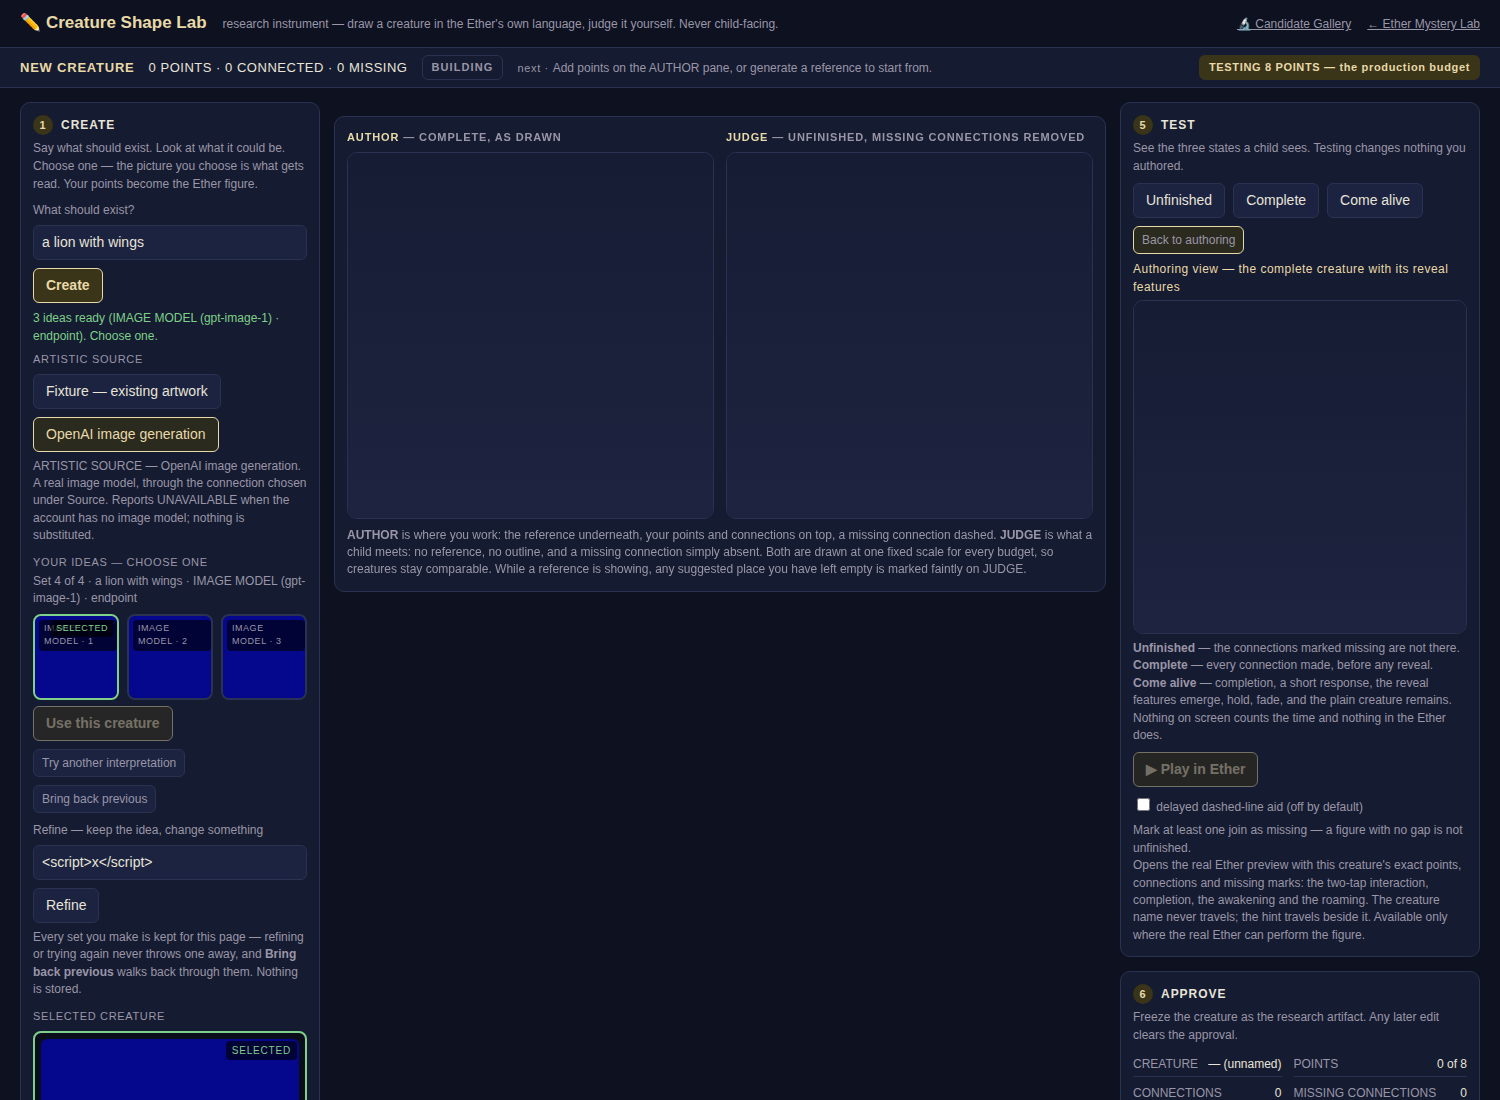
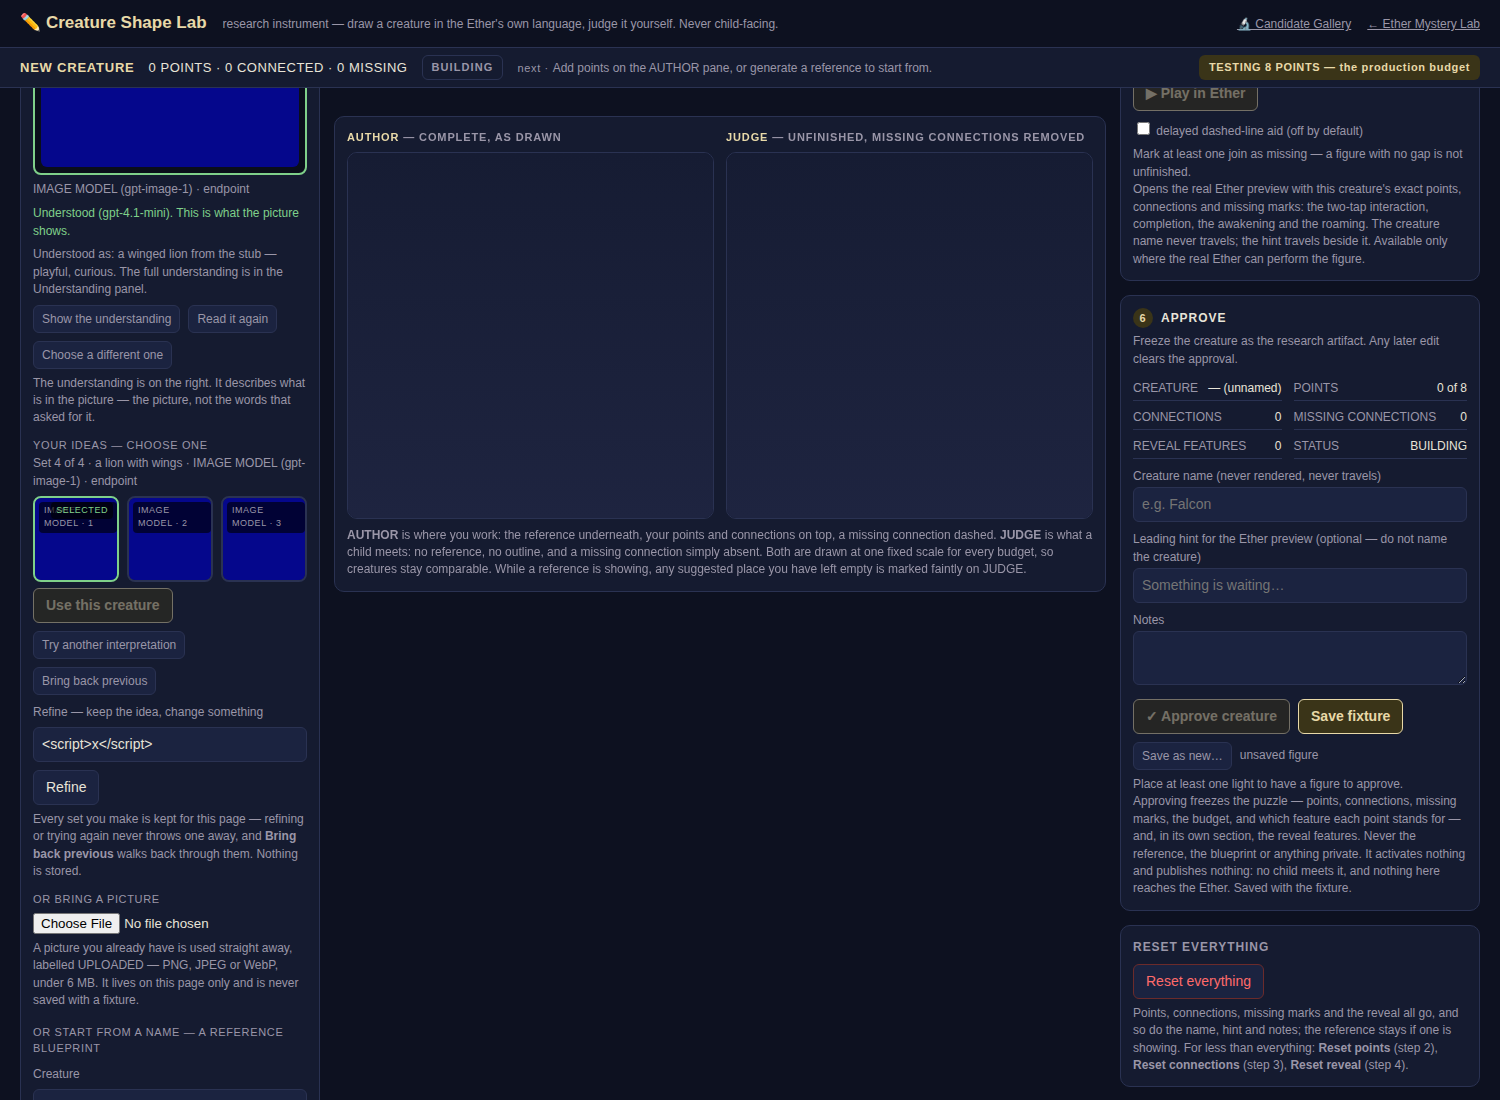
Shape Lab: a read is never below the fold — the top line follows it, with a ticker
Reported by the product owner on a narrow screen: the top line said
"Reading it…" for ever while the result sat under the gallery. The
understanding status is now written on the top line as well, counts the
seconds while the model reads, the selected picture stands above the
gallery with a one-line summary, and a button scrolls to the panel.

Claude-Session: https://claude.ai/code/session_01NR2MNb1W6fzYqou3TAkQQV

Changed region(s): [[0.0, 0.0618, 0.2147, 1.0], [0.736, 0.5873, 0.9813, 1.0], [0.736, 0.0618, 0.9813, 0.5564]]

diff --git a/tools/ether-mystery-lab/labImagine.js b/tools/ether-mystery-lab/labImagine.js
@@ -564,12 +564,14 @@
     }
     trace.request = mode === 'fixture' ? 'none — fixture mode answers with a placeholder that says no model looked' : 'sent through LabConnection (' + mode + '): the fixed contract, the creative prompt, and the picture (' + im.mime + ', ' + trace.imageBytes + ' bytes) — nothing else';
     state.busy = 'understand'; emit();
-    understandStatus(mode === 'fixture' ? 'Fixture: answering with a placeholder — no model looks at the picture…' : 'Reading the picture (' + mode + ')…');
+    var reading = mode === 'fixture' ? 'Fixture: answering with a placeholder — no model looks at the picture…' : 'Reading the picture (' + mode + ') — this takes a few seconds…';
+    understandStatus(reading);
+    if (mode !== 'fixture') tickStartFor(reading);
     return C.understand({
       messages: m.messages, image: { mime: im.mime, b64: im.b64 },
       fixture: function () { return fixtureAnalysis(g.prompt, im.title); }
     }).then(function (r) {
-      state.busy = null;
+      state.busy = null; tickStop();
       if (!r || !r.ok) {
         var reason = (r && r.reason) || 'unavailable';
         trace.answer = { ok: false, reason: reason }; trace.outcome = 'failed';
@@ -592,7 +594,7 @@
       emit();
       return { ok: true, source: r.source };
     }).catch(function () {
-      state.busy = null; trace.answer = { ok: false, reason: 'error' }; trace.outcome = 'failed';
+      state.busy = null; tickStop(); trace.answer = { ok: false, reason: 'error' }; trace.outcome = 'failed';
       understandStatus('Reading the picture failed (' + mode + '). ' + kept, 'warn'); emit();
       return { ok: false, reason: 'error' };
     });
@@ -607,7 +609,27 @@
   function el(sel) { return doc && doc.querySelector(sel); }
   function esc(s) { return String(s).replace(/[&<>"]/g, function (c) { return { '&': '&amp;', '<': '&lt;', '>': '&gt;', '"': '&quot;' }[c]; }); }
   function status(msg, kind) { var n = el('[data-imagine-status]'); if (n) { n.textContent = msg || ''; n.className = 'say imagine-status' + (kind ? ' ' + kind : ''); } }
-  function understandStatus(msg, kind) { var n = el('[data-imagine-understand-status]'); if (n) { n.textContent = msg || ''; n.className = 'say imagine-status' + (kind ? ' ' + kind : ''); } }
+  // The read's status is written in BOTH places — under the selected
+  // picture and on the top line under the prompt — because on a narrow
+  // screen the selected block and the Understanding panel sit below the
+  // fold, and a top line that still said "Reading it…" after the read had
+  // finished looked like a hang (reported by the product owner).
+  function understandStatus(msg, kind) {
+    var n = el('[data-imagine-understand-status]'); if (n) { n.textContent = msg || ''; n.className = 'say imagine-status' + (kind ? ' ' + kind : ''); }
+    status(msg, kind);
+  }
+  // While a read is in flight the line counts the seconds, so a slow model
+  // (a large picture at high detail takes ten seconds or so) reads as
+  // working rather than stuck.
+  var ticker = null, tickStart = 0, tickBase = '';
+  function tickStartFor(base) {
+    tickStop(); tickStart = Date.now(); tickBase = base;
+    ticker = setInterval(function () {
+      if (state.busy !== 'understand') { tickStop(); return; }
+      understandStatus(tickBase + ' ' + Math.round((Date.now() - tickStart) / 1000) + 's');
+    }, 1000);
+  }
+  function tickStop() { if (ticker) { clearInterval(ticker); ticker = null; } }
 
   function pageState() {
     if (state.busy === 'imagine') return 'creating';
@@ -655,6 +677,13 @@
     var img = doc.createElement('img'); img.alt = 'Selected creature — ' + (im.title ? im.title + ' — ' : '') + im.label; img.src = im.dataUrl;
     box.appendChild(img);
     var l = el('[data-imagine-selected-label]'); if (l) l.textContent = (im.title ? im.title + ' · ' : '') + im.label + (im.credit ? ' · ' + im.credit : '');
+    var sm = el('[data-imagine-summary]');
+    if (sm) {
+      var a = state.analysis;
+      sm.textContent = !a ? '' : (a.source === 'fixture' ? 'Placeholder in place (no model looked). ' : 'Understood as: ' + a.subject + ' — ' + a.character.join(', ') + '. ') + 'The full understanding is in the Understanding panel.';
+      sm.hidden = !a;
+    }
+    var sh = el('[data-imagine-show]'); if (sh) sh.disabled = !state.analysis;
   }
 
   function chips(list) { return (list || []).map(function (w) { return '<span class="an-chip">' + esc(w) + '</span>'; }).join(' '); }
@@ -755,6 +784,7 @@
     var useBtn = el('[data-imagine-use]'); if (useBtn) useBtn.addEventListener('click', function () { use(); });
     var ub = el('[data-imagine-understand]'); if (ub) ub.addEventListener('click', function () { understand(); });
     var un = el('[data-imagine-unselect]'); if (un) un.addEventListener('click', function () { unselect(); status('Choose another picture, or create more.'); });
+    var sh = el('[data-imagine-show]'); if (sh) sh.addEventListener('click', function () { var pn = el('[data-imagine-panel]'); if (pn && pn.scrollIntoView) pn.scrollIntoView({ block: 'start', behavior: 'smooth' }); });
     var file = el('[data-imagine-file]'); if (file) file.addEventListener('change', function () { var f = file.files && file.files[0]; if (f) bringImage(f); file.value = ''; });
     doc.querySelectorAll('[data-imagine-provider-pick]').forEach(function (bb) { bb.addEventListener('click', function () { setProvider(bb.getAttribute('data-imagine-provider-pick')); }); });
     var cp = el('[data-imagine-copy]');

diff --git a/tools/ether-mystery-lab/preview.html b/tools/ether-mystery-lab/preview.html
@@ -115,39 +115,39 @@
 
 <!-- The runtime, in its own dependency order (the sandbox's order,
      which is index.html's order). -->
-<script src="../../vihuplanet/artDirection/illustrationRules.js?lab=58c1d46792"></script>
-<script src="../../vihuplanet/runtime/core/namespace.js?lab=58c1d46792"></script>
-<script src="../../vihuplanet/runtime/core/rng.js?lab=58c1d46792"></script>
-<script src="../../vihuplanet/runtime/core/signal.js?lab=58c1d46792"></script>
-<script src="../../vihuplanet/runtime/core/clock.js?lab=58c1d46792"></script>
-<script src="../../vihuplanet/runtime/core/camera.js?lab=58c1d46792"></script>
-<script src="../../vihuplanet/runtime/core/traveller.js?lab=58c1d46792"></script>
-<script src="../../vihuplanet/runtime/stories/storyEntity.js?lab=58c1d46792"></script>
-<script src="../../vihuplanet/runtime/stories/storyManager.js?lab=58c1d46792"></script>
-<script src="../../vihuplanet/runtime/stories/storyLayer.js?lab=58c1d46792"></script>
-<script src="../../vihuplanet/runtime/stories/storySpirit.js?lab=58c1d46792"></script>
-<script src="../../vihuplanet/runtime/physics/spatialGrid.js?lab=58c1d46792"></script>
-<script src="../../vihuplanet/runtime/physics/physics.js?lab=58c1d46792"></script>
-<script src="../../vihuplanet/runtime/ether/ether.js?lab=58c1d46792"></script>
-<script src="../../vihuplanet/runtime/ether/currents.js?lab=58c1d46792"></script>
-<script src="../../vihuplanet/runtime/ether/aurora.js?lab=58c1d46792"></script>
-<script src="../../vihuplanet/runtime/ether/etherRenderer.js?lab=58c1d46792"></script>
-<script src="../../vihuplanet/runtime/ambient/ambientSystem.js?lab=58c1d46792"></script>
-<script src="../../vihuplanet/runtime/focus/focusSystem.js?lab=58c1d46792"></script>
-<script src="../../vihuplanet/runtime/birth/storyBirth.js?lab=58c1d46792"></script>
-<script src="../../vihuplanet/runtime/worlds/worldEngine.js?lab=58c1d46792"></script>
-<script src="../../vihuplanet/runtime/core/universe.js?lab=58c1d46792"></script>
+<script src="../../vihuplanet/artDirection/illustrationRules.js?lab=8809f30565"></script>
+<script src="../../vihuplanet/runtime/core/namespace.js?lab=8809f30565"></script>
+<script src="../../vihuplanet/runtime/core/rng.js?lab=8809f30565"></script>
+<script src="../../vihuplanet/runtime/core/signal.js?lab=8809f30565"></script>
+<script src="../../vihuplanet/runtime/core/clock.js?lab=8809f30565"></script>
+<script src="../../vihuplanet/runtime/core/camera.js?lab=8809f30565"></script>
+<script src="../../vihuplanet/runtime/core/traveller.js?lab=8809f30565"></script>
+<script src="../../vihuplanet/runtime/stories/storyEntity.js?lab=8809f30565"></script>
+<script src="../../vihuplanet/runtime/stories/storyManager.js?lab=8809f30565"></script>
+<script src="../../vihuplanet/runtime/stories/storyLayer.js?lab=8809f30565"></script>
+<script src="../../vihuplanet/runtime/stories/storySpirit.js?lab=8809f30565"></script>
+<script src="../../vihuplanet/runtime/physics/spatialGrid.js?lab=8809f30565"></script>
+<script src="../../vihuplanet/runtime/physics/physics.js?lab=8809f30565"></script>
+<script src="../../vihuplanet/runtime/ether/ether.js?lab=8809f30565"></script>
+<script src="../../vihuplanet/runtime/ether/currents.js?lab=8809f30565"></script>
+<script src="../../vihuplanet/runtime/ether/aurora.js?lab=8809f30565"></script>
+<script src="../../vihuplanet/runtime/ether/etherRenderer.js?lab=8809f30565"></script>
+<script src="../../vihuplanet/runtime/ambient/ambientSystem.js?lab=8809f30565"></script>
+<script src="../../vihuplanet/runtime/focus/focusSystem.js?lab=8809f30565"></script>
+<script src="../../vihuplanet/runtime/birth/storyBirth.js?lab=8809f30565"></script>
+<script src="../../vihuplanet/runtime/worlds/worldEngine.js?lab=8809f30565"></script>
+<script src="../../vihuplanet/runtime/core/universe.js?lab=8809f30565"></script>
 
 <!-- The Ether's own providers — the same files the product loads. -->
-<script src="../../js/etherLife.js?lab=58c1d46792"></script>
-<script src="../../js/etherRipple.js?lab=58c1d46792"></script>
-<script src="../../js/etherGrammar.js?lab=58c1d46792"></script>
-<script src="../../js/etherCreationLens.js?lab=58c1d46792"></script>
-<script src="../../js/etherMystery.js?lab=58c1d46792"></script>
+<script src="../../js/etherLife.js?lab=8809f30565"></script>
+<script src="../../js/etherRipple.js?lab=8809f30565"></script>
+<script src="../../js/etherGrammar.js?lab=8809f30565"></script>
+<script src="../../js/etherCreationLens.js?lab=8809f30565"></script>
+<script src="../../js/etherMystery.js?lab=8809f30565"></script>
 
-<script src="labReveal.js?lab=58c1d46792"></script>
-<script src="labPreviewSupport.js?lab=58c1d46792"></script>
-<script src="labResearch.js?lab=58c1d46792"></script>
-<script src="labPreview.js?lab=58c1d46792"></script>
+<script src="labReveal.js?lab=8809f30565"></script>
+<script src="labPreviewSupport.js?lab=8809f30565"></script>
+<script src="labResearch.js?lab=8809f30565"></script>
+<script src="labPreview.js?lab=8809f30565"></script>
 </body>
 </html>

diff --git a/tools/ether-mystery-lab/shape.html b/tools/ether-mystery-lab/shape.html
@@ -288,6 +288,19 @@
       <button data-imagine-provider-pick="openai-image">OpenAI image generation</button>
     </div>
     <div class="note" data-imagine-provider-line></div>
+    <div data-imagine-selected hidden>
+      <div class="srclabel" style="margin-top:10px">Selected creature</div>
+      <div class="selbox"><div data-imagine-selected-img></div><span class="selbadge">SELECTED</span></div>
+      <div class="note" data-imagine-selected-label></div>
+      <div class="say imagine-status" data-imagine-understand-status></div>
+      <div class="note" data-imagine-summary hidden></div>
+      <div class="row">
+        <button data-imagine-show class="quiet" disabled>Show the understanding</button>
+        <button data-imagine-understand class="quiet" disabled>Read it again</button>
+        <button data-imagine-unselect class="quiet" disabled>Choose a different one</button>
+      </div>
+      <div class="note">The understanding is on the right. It describes what is in the picture — the picture, not the words that asked for it.</div>
+    </div>
     <div data-imagine-ideas hidden>
       <div class="srclabel" style="margin-top:10px">Your ideas — choose one</div>
       <div class="note" data-imagine-set></div>
@@ -304,17 +317,6 @@
         <button data-imagine-refine-go disabled>Refine</button>
       </div>
       <div class="note">Every set you make is kept for this page — refining or trying again never throws one away, and <b>Bring back previous</b> walks back through them. Nothing is stored.</div>
-    </div>
-    <div data-imagine-selected hidden>
-      <div class="srclabel" style="margin-top:10px">Selected creature</div>
-      <div class="selbox"><div data-imagine-selected-img></div><span class="selbadge">SELECTED</span></div>
-      <div class="note" data-imagine-selected-label></div>
-      <div class="say imagine-status" data-imagine-understand-status></div>
-      <div class="row">
-        <button data-imagine-understand class="quiet" disabled>Read it again</button>
-        <button data-imagine-unselect class="quiet" disabled>Choose a different one</button>
-      </div>
-      <div class="note">The understanding is on the right. It describes what is in the picture — the picture, not the words that asked for it.</div>
     </div>
     <div class="srclabel" style="margin-top:10px">Or bring a picture</div>
     <div class="row"><input type="file" data-imagine-file accept="image/png,image/jpeg,image/webp" style="flex:1 1 200px"></div>
@@ -621,18 +623,18 @@
 </div>
 </main>
 
-<script src="../../js/etherGrammar.js?lab=58c1d46792"></script>
-<script src="labKit.js?lab=58c1d46792"></script>
-<script src="labPreviewHost.js?lab=58c1d46792"></script>
-<script src="labConnection.js?lab=58c1d46792"></script>
-<script src="labBlueprint.js?lab=58c1d46792"></script>
-<script src="labOutline.js?lab=58c1d46792"></script>
-<script src="labReveal.js?lab=58c1d46792"></script>
-<script src="labRevealData.js?lab=58c1d46792"></script>
-<script src="labShape.js?lab=58c1d46792"></script>
-<script src="labReference.js?lab=58c1d46792"></script>
-<script src="labArtworkData.js?lab=58c1d46792"></script>
-<script src="labImagine.js?lab=58c1d46792"></script>
-<script src="labTranslationData.js?lab=58c1d46792"></script>
+<script src="../../js/etherGrammar.js?lab=8809f30565"></script>
+<script src="labKit.js?lab=8809f30565"></script>
+<script src="labPreviewHost.js?lab=8809f30565"></script>
+<script src="labConnection.js?lab=8809f30565"></script>
+<script src="labBlueprint.js?lab=8809f30565"></script>
+<script src="labOutline.js?lab=8809f30565"></script>
+<script src="labReveal.js?lab=8809f30565"></script>
+<script src="labRevealData.js?lab=8809f30565"></script>
+<script src="labShape.js?lab=8809f30565"></script>
+<script src="labReference.js?lab=8809f30565"></script>
+<script src="labArtworkData.js?lab=8809f30565"></script>
+<script src="labImagine.js?lab=8809f30565"></script>
+<script src="labTranslationData.js?lab=8809f30565"></script>
 </body>
 </html>

diff --git a/tools/ether-mystery-lab-test/run-lab-tests.js b/tools/ether-mystery-lab-test/run-lab-tests.js
@@ -7441,6 +7441,12 @@ async function sectionIM() {
       subject: a.subject, source: a.source, panelBadge: document.querySelector('[data-imagine-panel-source]').textContent, panel: document.querySelector('[data-imagine-panel]').textContent, uoutcome: document.querySelector('[data-imagine-section]').getAttribute('data-understand-outcome'), ustatus: document.querySelector('[data-imagine-understand-status]').textContent, trace: window.LabImagine.lastUnderstand() }; });
     const reqAfterUse = requests.length;
     ck(used.sel && used.sel.artworkId === 'leo' && used.selImg && used.badge === 'SELECTED' && used.chosenTag, 'IM9f USE makes the choice the selected creature — shown large, badged SELECTED, and marked in the gallery');
+    // (reported by the product owner on a narrow screen: the top line said
+    // "Reading it…" for ever while the result sat below the fold)
+    const where = await S(() => ({ top: document.querySelector('[data-imagine-status]').textContent, under: document.querySelector('[data-imagine-understand-status]').textContent, summary: document.querySelector('[data-imagine-summary]').textContent, summaryHidden: document.querySelector('[data-imagine-summary]').hidden, showOn: !document.querySelector('[data-imagine-show]').disabled,
+      selectedAboveIdeas: document.querySelector('[data-imagine-selected]').compareDocumentPosition(document.querySelector('[data-imagine-ideas]')) & Node.DOCUMENT_POSITION_FOLLOWING }));
+    ck(where.top === where.under && /placeholder|Understood/.test(where.top) && !where.summaryHidden && /Understanding panel/.test(where.summary) && where.showOn && !!where.selectedAboveIdeas,
+      'IM9f2 the read\'s outcome is written on the TOP line as well as under the picture, a one-line summary and a Show-the-understanding button sit under the selected picture, and the selected block stands above the gallery — nothing about a read is below the fold');
     ck(/^FIXTURE/.test(used.subject) && used.source === 'fixture' && /FIXTURE — a placeholder, no model looked/.test(used.panelBadge) && /no model/i.test(used.panel) && used.uoutcome === 'fixture' && /no model looked at the picture/.test(used.ustatus) && /sends nothing|placeholder/.test(used.trace.request),
       'IM9g with the Fixture connection the understanding is a placeholder that says on its face that no model looked — never an invented description');
     ck(reqAfterUse === requests.length && !requests.some((u) => /openai|supabase/.test(u)), 'IM9h and no request left for it');

diff --git a/tools/ether-mystery-lab/index.html b/tools/ether-mystery-lab/index.html
@@ -254,16 +254,16 @@
 <!-- The 0766 architecture, reused, never duplicated. None of these
      mounts anything: the grammar, the lens and the pool are pure
      data/functions, and no Ether runtime file is loaded here. -->
-<script src="../../js/etherGrammar.js?lab=58c1d46792"></script>
-<script src="../../js/etherCreationLens.js?lab=58c1d46792"></script>
-<script src="../../assets/ether/experience-pool.js?lab=58c1d46792"></script>
-<script src="fixtures.js?lab=58c1d46792"></script>
-<script src="labConstellations.js?lab=58c1d46792"></script>
-<script src="labPreviewSupport.js?lab=58c1d46792"></script>
-<script src="labResearch.js?lab=58c1d46792"></script>
-<script src="labPreviewHost.js?lab=58c1d46792"></script>
-<script src="labKit.js?lab=58c1d46792"></script>
-<script src="labConnection.js?lab=58c1d46792"></script>
-<script src="labUi.js?lab=58c1d46792"></script>
+<script src="../../js/etherGrammar.js?lab=8809f30565"></script>
+<script src="../../js/etherCreationLens.js?lab=8809f30565"></script>
+<script src="../../assets/ether/experience-pool.js?lab=8809f30565"></script>
+<script src="fixtures.js?lab=8809f30565"></script>
+<script src="labConstellations.js?lab=8809f30565"></script>
+<script src="labPreviewSupport.js?lab=8809f30565"></script>
+<script src="labResearch.js?lab=8809f30565"></script>
+<script src="labPreviewHost.js?lab=8809f30565"></script>
+<script src="labKit.js?lab=8809f30565"></script>
+<script src="labConnection.js?lab=8809f30565"></script>
+<script src="labUi.js?lab=8809f30565"></script>
 </body>
 </html>

diff --git a/tools/ether-mystery-lab/gallery.html b/tools/ether-mystery-lab/gallery.html
@@ -131,10 +131,10 @@
   </section>
 </main>
 
-<script src="../../js/etherGrammar.js?lab=58c1d46792"></script>
-<script src="labKit.js?lab=58c1d46792"></script>
-<script src="labShape.js?lab=58c1d46792"></script>
-<script src="labGalleryData.js?lab=58c1d46792"></script>
-<script src="labGallery.js?lab=58c1d46792"></script>
+<script src="../../js/etherGrammar.js?lab=8809f30565"></script>
+<script src="labKit.js?lab=8809f30565"></script>
+<script src="labShape.js?lab=8809f30565"></script>
+<script src="labGalleryData.js?lab=8809f30565"></script>
+<script src="labGallery.js?lab=8809f30565"></script>
 </body>
 </html>
